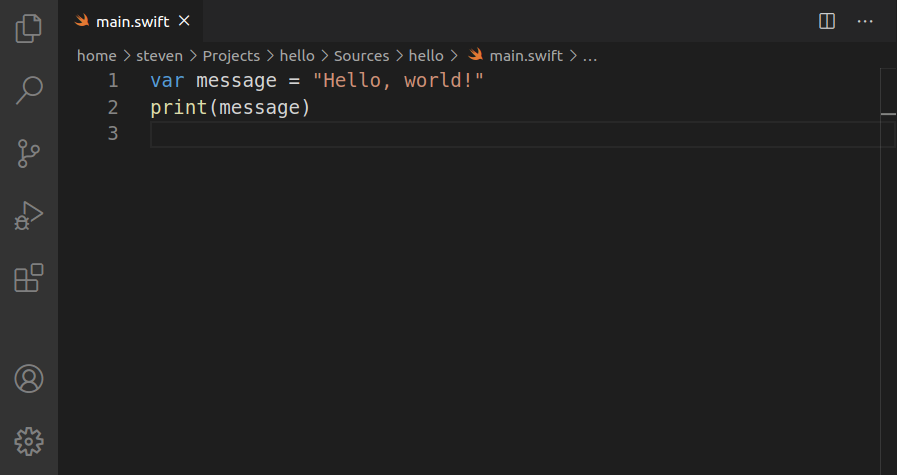
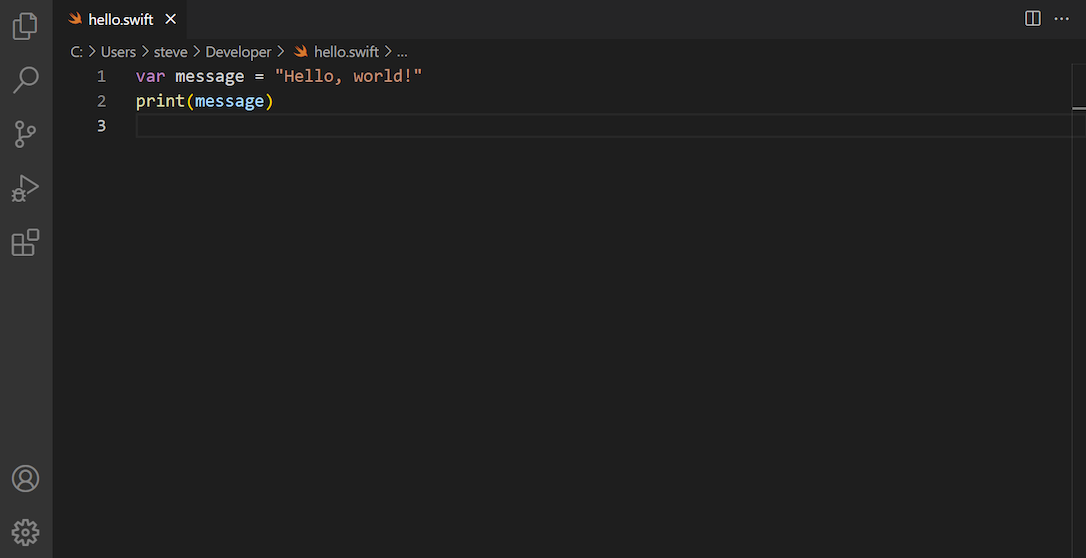
Update VS Code for Windows to use the new Swift extension

diff --git a/editors/vscode-windows/README.md b/editors/vscode-windows/README.md
@@ -6,18 +6,18 @@
 
 ## Features
 
-Out of the box, Visual Studio Code supports syntax highlighting and code formatting for Swift. However, you can greatly extend its functionality by installing the [**SourceKit-LSP**](https://github.com/apple/sourcekit-lsp) extension. The result is a very capable editor:
+Out of the box, Visual Studio Code supports syntax highlighting and code formatting for Swift. However, you can greatly extend its functionality by installing the [**Swift extension**](https://marketplace.visualstudio.com/items?itemName=sswg.swift-lang). The result is a very capable editor:
 
 ✅ Syntax highlighting \
 ✅ Formatting \
-✅ Completion (SourceKit-LSP) \
-✅ Quick help (SourceKit-LSP) \
-✅ Diagnostics (SourceKit-LSP) \
-✅ Fix-its (SourceKit-LSP) \
+✅ Completion \
+✅ Quick help \
+✅ Diagnostics \
+✅ Fix-its \
 ❌ Refactoring \
 ✅ Run executables \
-❌ Debugging \
-❌ Testing
+✅ Debugging \
+✅ Testing
 
 ## Installation
 
@@ -31,31 +31,33 @@ After installation, you can launch Visual Studio Code from the **Start** menu. Y
 code
 ```
 
-### SourceKit-LSP
+### Swift extension
 
-The **SourceKit-LSP** extension is still in development. For easy installation, you can download the latest version from our repository:
-
-⬇ [Download the SourceKit-LSP extension](../../downloads/sourcekit-lsp-development.vsix)
-
-To install this extension, select **View ▸ Extensions** from the menu bar, click the triple dots, then select **Install from VSIX...**:
+To install the Swift extension, select **View ▸ Extensions** from the menu bar, search “swift”, and install the extension published by the Swift Server Work Group:
 
 ![](install-extension.png)
 
-Browse to the **sourcekit-lsp-development.vsix** file you downloaded earlier, and install it.
+The Swift extension includes the [**CodeLLDB extension**](https://marketplace.visualstudio.com/items?itemName=vadimcn.vscode-lldb), on which it depends to run and debug programs using **LLDB**.
+
+After installation, the extension will prompt you to configure a Swift-specific version of LLDB:
+
+![](lldb.png)
+
+Select **Global** unless you intend to configure a custom version of LLDB.
 
 ## Usage
 
 To edit files with Visual Studio Code, select **File ▸ Open File...** from the menu bar or specify the files you want to open as arguments for the `code` command:
 
 ```
-code main.swift
+code hello.swift
 ```
 
 ![](open-file.png)
 
 If you specify a file that doesn’t exist, Visual Studio Code will create it for you. Alternatively, you can create files by selecting **File ▸ New File** from the menu bar.
 
-To edit a Swift package, select **File ▸ Open Folder...** and open the directory that contains the **Package.swift** file. On the command line, you specify this directory as an argument for the `code` command:
+To edit a Swift package, select **File ▸ Open Folder...** from the menu bar and open the directory that contains the **Package.swift** file. On the command line, you specify this directory as an argument for the `code` command:
 
 ```
 code hello
@@ -63,62 +65,43 @@ code hello
 
 ![](open-package.png)
 
-Note that the SourceKit-LSP extension will not work properly until you build your package. It also requires you to reload the package when you add or remove source files.
+To run your code, select **Run ▸ Run Without Debugging** from the menu bar or press **Ctrl+F5**.
 
-### Workspace trust settings
+Unfortunately, Visual Studio Code will open an external terminal and you won’t see the output of your program. Therefore, you may want to run your program from the integrated terminal instead:
 
-Visual Studio Code may open your workspace in **restricted mode**, which will disable the SourceKit-LSP extension:
+![](run-package.png)
 
-![](restricted-mode-banner.png)
+If the terminal is hidden, select **View ▸ Terminal** from the menu bar to show it.
 
-If you’re seeing this banner, click **Manage**, then **Trust** to enable all features and extensions:
+If your package contains multiple executable targets, select **View ▸ Run** from the menu bar to open the **Run and Debug** view. There, you can select a target to run:
 
-![](workspace-trust-settings.png)
+![](run-debug.png)
 
-### Integrated terminal
+### Debugging
 
-Visual Studio Code includes an integrated terminal that you can use to build and run your code. To open this terminal, select **View ▸ Terminal** from the menu bar:
+To debug a program, first set a breakpoint by clicking next to the line of code where you want the debugger to pause execution:
 
-![](terminal.png)
+![](breakpoint.png)
 
-### Creating a build task
+Next, select **Run ▸ Start Debugging** from the menu bar or press **F5** to start the debugger:
 
-You can create a build task to make your package easier to run. Select **Terminal ▸ Run Build Task...** from the menu bar, then select **Configure Build Task...**:
+![](debugging.png)
 
-![](task1.png)
+Use the debug console and the floating toolbar to interact with the program.
 
-Next, select **Create tasks.json file from template**:
+When you’re done debugging, use the **Stop** button on the floating toolbar or press **Shift+F5** to stop the debugger.
 
-![](task2.png)
+## Testing
 
-Then select **Others**:
+To run unit tests, select **View ▸ Testing** from the menu bar to open the **Test Explorer**. There, you can either run all tests, or run a specific target, class, or test:
 
-![](task3.png)
+![](testing.png)
 
-This adds a **tasks.json** file to the **.vscode** directory in your package. Change the contents of this file to the following:
+If the Test Explorer shows a test discovery error, select **Terminal ▸ Run Build Task...** from the menu bar and run the **swift: Build All** task to build the test targets.
 
-```json
-{
-    "version": "2.0.0",
-    "tasks": [
-        {
-            "label": "swift build",
-            "type": "shell",
-            "command": "swift build; if ($?) { .build\\debug\\<program>.exe }",
-            "group": {
-                "kind": "build",
-                "isDefault": true
-            }
-        }
-    ]
-}
-```
-
-Replace `<program>` with the name of your executable target. You can find this name in **Package.swift**. Most likely, it’s also the name of your package.
-
-You can now select **Terminal ▸ Run Build Task...** from the menu bar or press **Ctrl+Shift+B** to run this task. The task will first run `swift build` to compile your package and, if that succeeds, run your executable. You’ll find its output in the integrated terminal.
+Test results will appear in the integrated terminal, in the Test Explorer, and in the editor.
 
 ---
 
-Last updated: 23 Oct. 2021 \
+Last updated: 23 Sept. 2022 \
 Author: [Steven Van Impe](https://github.com/svanimpe)

diff --git a/editors/vscode-linux/README.md b/editors/vscode-linux/README.md
@@ -58,7 +58,7 @@ To install the Swift extension, select **View ▸ Extensions** from the menu bar
 
 The Swift extension includes the [**CodeLLDB extension**](https://marketplace.visualstudio.com/items?itemName=vadimcn.vscode-lldb), on which it depends to run and debug programs using **LLDB**.
 
-During installation, the extension will prompt you to configure a Swift-specific version of LLDB:
+After installation, the extension will prompt you to configure a Swift-specific version of LLDB:
 
 ![](lldb.png)
 
@@ -120,11 +120,11 @@ To run unit tests, select **View ▸ Testing** from the menu bar to open the **T
 
 ![](testing.png)
 
-Test results will appear in the integrated terminal, as well as in the Test Explorer.
-
 If the Test Explorer shows a test discovery error, select **Terminal ▸ Run Build Task...** from the menu bar and run the **swift: Build All** task to build the test targets.
+
+Test results will appear in the integrated terminal, in the Test Explorer, and in the editor.
 
 ---
 
-Last updated: 21 Sept. 2022 \
+Last updated: 23 Sept. 2022 \
 Author: [Steven Van Impe](https://github.com/svanimpe)
